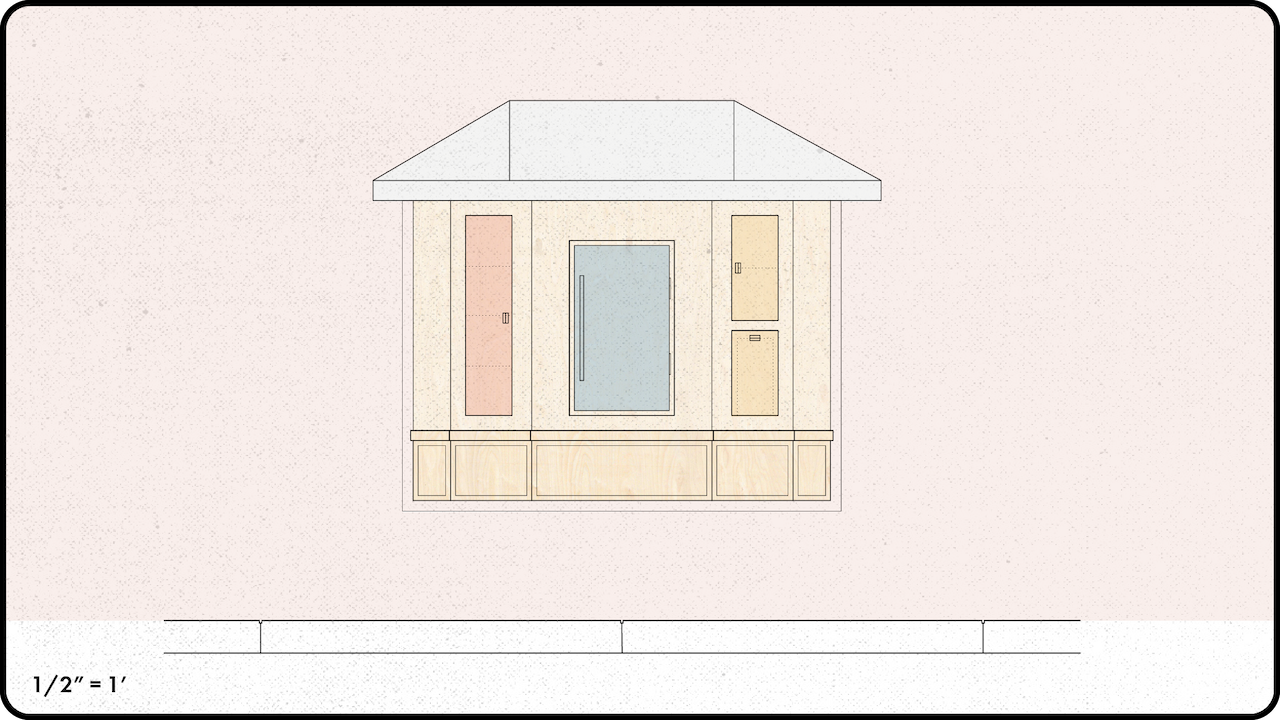
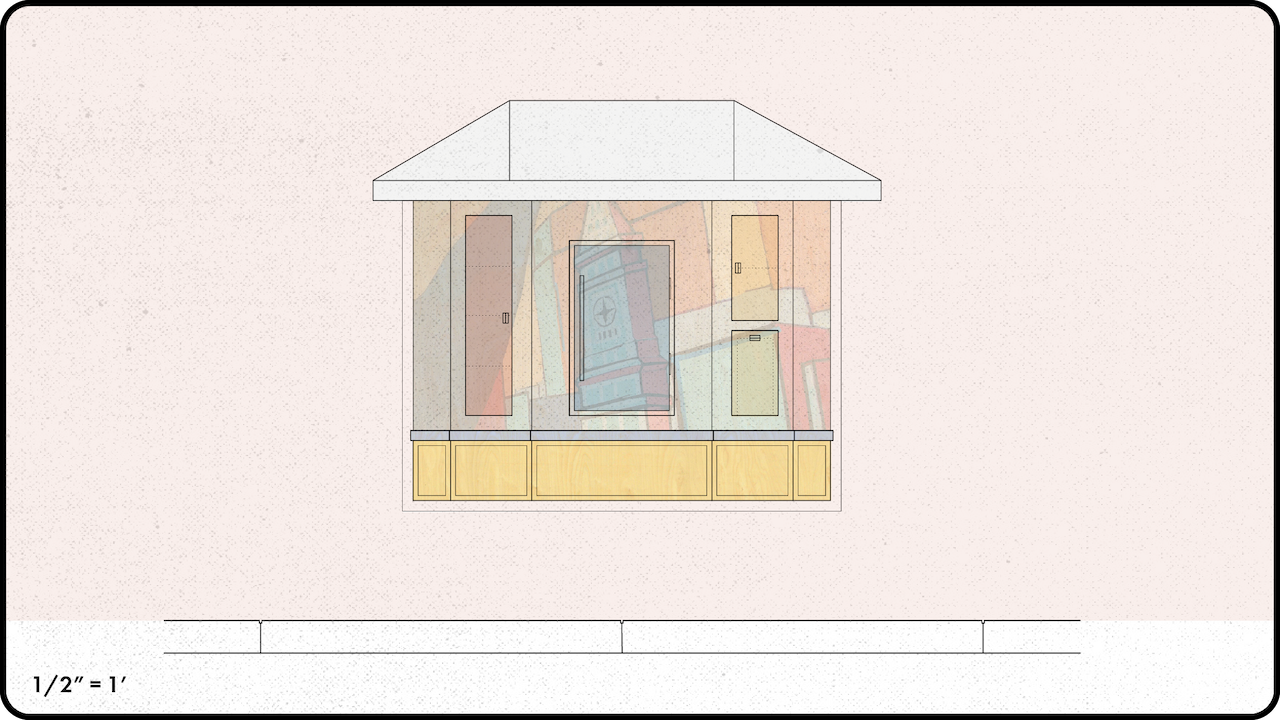
Fixed text and added perspectives

Changed region(s): [[0.3125, 0.275, 0.6562, 0.7028]]

diff --git a/index.html b/index.html
@@ -14,7 +14,7 @@
 				font-style: normal;
 				font-weight: bold;
 				font-size: 80px;
-				line-height: 70px;
+				line-height: 80px;
 				margin: 30px;
 				text-align: right;
 			}
@@ -56,8 +56,28 @@
 				font-size: 20px;
 				margin: 50px;
 			}
+			p2{
+				color: white;
+				font-family: Futura;
+				font-style: normal;
+				font-weight: thin;
+				font-size: 24px;
+				margin: 50px;
+			}
 			.mango{
 				margin: 0px 0px 0px 50px;
+			}
+			.mangos{
+				margin: 10px 10px 20px 30px;
+				float:left;
+			}
+			.cool{
+				margin: -20px 10px 0px 50px;
+				float:left;
+			}
+			.cooler{
+				margin: -20px 30px 0px 50px;
+				float:left;
 			}
 			.orange{
 				margin: 10px 50px 10px 50px;
@@ -66,7 +86,12 @@
 				width: 800px;
 			}
 			.shorter{
-				margin: 50px 50px 0px 500px;
+				margin: 50px 70px 50px 500px;
+				text-align: right;
+			}
+			.shortest{
+				margin: -50px 120px 50px 500px;
+				text-align: right;
 			}
 			#SiteNarrative{
 				text-align: right;
@@ -161,7 +186,11 @@
 			</div>
 
 			<div id="abstract">
-				<p> Institutionalized racism effects the well-being of minority groups every day. This manifests itself in issues regarding income, housing, energy insecurity, health care, and food insecurity. When systemic barriers overlap, you are left with generational poverty. With the COVID-19 Pandemic highlighting and exacerbating these issues, it is important to recognize and tackle these problems now. In East Boston, Latinx peoples have the highest rate of food insecurity of the different races/ethnicities studied and 59% of the EBHNC study participants lived in food-insecure households. While community cannot solve these issues, promoting a foundation of mutual aid in these under-served communities can help to support mental health and strengthen the neighborly bonds that we need to survive. Mutual Aid is described as “solidarity, not charity” and allows for communities to create sustainable networks to invest in themselves. The pandemic has garnerated a robust response to food insecurity but the current systems rely on flimsy infrastructure and do not have dedicated spaces beyond parking lots and community center rooms. So how can we reinterpret these historically charity-based models to embrace the concept of mutual aid? Mutual aid networks like the Young Lords Garbage Offensive and the Black Panthers Breakfast Program, are examples of a community’s ability to stand up to lack of physical infrastructure with social infrastructure. These networks existed as programming and rarely had physical spaces dedicated to public meeting. This is the same for most of the community work done by stakeholders NUBE, Eastie Farms, Cosecha, and Empower East Boston. Spacial installations are usually fold-up tables that don’t provide stability or create meaningful infrastructure. The residents of East Boston are separated from their community infrastructure and to change this I propose reclaiming empty lots to create community land, like the precedent of Eastie Farms. This would give residents the foundation of space and ownership to then build their relationships and mutual aid network. This would happen in the Eagle Hill and Orient Heights communities as these are the most at risk. The main water front site will house the Community Cafeteria while the more scalar installations will populate the city's streets. Residents will be able to use these spaces to tend to their existing neighborly/communal interactions and build a sustainable mutual aid network.</p> 
+				<img class="cooler" src="images/BWCS2.png"/>
+				<p>  </p>
+				<p2>Institutionalized racism effects the well-being of minority groups every day. This manifests itself in issues regarding income, housing, energy insecurity, health care, and food insecurity. When systemic barriers overlap, you are left with generational poverty. With the COVID-19 Pandemic highlighting and exacerbating these issues, it is important to recognize and tackle these problems now. In East Boston, Latinx peoples have the highest rate of food insecurity of the different races/ethnicities studied and 59% of the EBHNC study participants lived in food-insecure households. While community cannot solve these issues, promoting a foundation of mutual aid in these under-served communities can help to support mental health and strengthen the neighborly bonds that we need to survive. Mutual Aid is described as “solidarity, not charity” and allows for communities to create sustainable networks to invest in themselves. The pandemic has garnerated a robust response to food insecurity but the current systems rely on flimsy infrastructure and do not have dedicated spaces beyond parking lots and community center rooms. So how can we reinterpret these historically charity-based models to embrace the concept of mutual aid? Mutual aid networks like the Young Lords Garbage Offensive and the Black Panthers Breakfast Program, are examples of a community’s ability to stand up to lack of physical infrastructure with social infrastructure.</p> 
+				<img class="cool" src="images/BWCS.png"/>
+				<p2> These networks existed as programming and rarely had physical spaces dedicated to public meeting. This is the same for most of the community work done by stakeholders NUBE, Eastie Farms, Cosecha, and Empower East Boston. Spacial installations are usually fold-up tables that don’t provide stability or create meaningful infrastructure. The residents of East Boston are separated from their community infrastructure and to change this I propose reclaiming empty lots to create community land, like the precedent of Eastie Farms. This would give residents the foundation of space and ownership to then build their relationships and mutual aid network. This would happen in the Eagle Hill and Orient Heights communities as these are the most at risk. The main water front site will house the Community Cafeteria while the more scalar installations will populate the city's streets. Residents will be able to use these spaces to tend to their existing neighborly/communal interactions and build a sustainable mutual aid network.</p> 
 			</div>
 			<div id="SiteNarrative">
 				<img class="orange" src="images/OlderDia.png"/>
@@ -172,39 +201,47 @@
 			</div>
 			<div id="Stakeholder">
 				<img class="mango" src="images/Stakeholder.png"/>
-				<p class="short"> My stakeholder map highlights the important players in my project. The community centers and food-based organizations will play a large part on the main site, but the smaller installations will depend in large part, on the community and the corner stores/business owners. It is an interconnected network of many moving parts. We as designers, need to be mindful and try to understand each of these parts intimately. And rather than implement separate and unrelatable installations, propose infrastructure to bolster and support the existing economy and mutual aid relationship buds that are beginning to sprout in this new era. This diagram attempts to show the relationship between designer and community, how we must try to embed ourselves in and strengthen these relationships, so that when we leave, the framework we leave behind can continue to stand on its own.</p>
+				<p class="short"> My stakeholder map highlights the important players in my project. The community centers and food-based organizations will play a large part on the main site, but the smaller installations will depend in large part, on the community and the corner stores/business owners. It is an interconnected network of many moving parts. The maintenance of the proposed community infrastructure will depend on the strength and willingness to participate of each member. We as designers, need to be mindful and try to understand each of these parts intimately. And rather than implement separate and unrelatable installations, propose infrastructure to bolster and support the existing economy and mutual aid relationship buds that are beginning to sprout in this new era. This diagram attempts to show the relationship between designer and community, how we must try to embed ourselves in and strengthen these relationships, so that when we leave, the framework we leave behind can continue to stand on its own.</p>
 			</div>
 			<div id="Concept">
 				<h3>The Site</h3>
-				<img class="mango" src="images/Plan_Shaws.png"/>
-				<img class="mango" src="images/Plan_CS.png"/>
-				<img class="mango" src="images/Plan_Walkability.png"/>
-				<p class="short"> The neighborhood has one Shaws that is fairly accessibile via car. Anyone in the neighborhood with access to a vehicle can get to the grocery store within 5 minutes. However, these diagrams are showing what it's like to live in a walkable city and how the residents and business owners were able to fill in the gaps in the infrastructure with the various corner stores. The last shot is showing a 5 minute walkable radius in each circle. Most of the neighborhood is covered except for the area in the top, near the main site.   
+					<img class="orange" src="images/Plan_Shaws.png"/>
+					<img class="orange" src="images/Plan_CS.png"/>
+					<img class="orange" src="images/Plan_Walkability.png"/>
+					<p class="shortest"> The neighborhood has one Shaws that is fairly accessibile via car. Anyone in the neighborhood with access to a vehicle can get to the grocery store within 5 minutes. However, these diagrams are showing what it's like to live in a walkable city and how the residents and business owners were able to fill in the gaps in the infrastructure with the various bodegas. The last shot is showing a 5 minute walkable radius in each circle. Most of the neighborhood is covered except for the area in the top, near the main site.   
 				<h3>Scalar Interventions</h3>
-				<img class="mango" src="images/NetworkPlan.png"/>
-				<img class="mango" src="images/BayWindows.png"/>
-				<img class="mango" src="images/Sketch3.png"/>
-				<img class="mango" src="images/Sketch2.png"/>
-				<img class="mango" src="images/Sketch.png"/>
-				<img class="mango" src="images/BayPlan.png"/>
-				<img class="mango" src="images/BayElev.png"/>
-				<img class="mango" src="images/ParkletPlan.png"/>
-				<img class="mango" src="images/ParkletElev.png"/>
-				<img class="mango" src="images/Section.png"/>
-				<p class="short"> Before we get into the larger site, I wanted to introduce the building blocks of the project. A food belt of sorts, that will help to strengthen the mutual aid infrastructure of the community. Inspired by the intimate bay window that graces the facade of an abundance of buildings in the neighborhood, I am creating sites of mutual benefit within the existing framework of East Boston. With a range of scales depending on the installation site, these modular interventions are a small way of utilizing these corner stores, typically spaces of interaction and gathering, to further engage the community. Especially in an area with only one large supermarket, occasional shopping really only happens at these bodegas. So to choose these spaces for intervention is to recognize this and to give residents the ability to engage in mutual aid activity in their regular lives. Each Bay houses a community fridge, pantry space, and garbage/compost. And to further activate these spaces: the parklet! A selling point for these business owners is the parklet to provide outdoor seating and additonal community space to encourage relationships and meeting and make these corner stores an even more integral piece of infrastructure in the community.
+					<img class="mango" src="images/BayWindows.png"/>
+					<img class="mango" src="images/NetworkPlan.png"/>
+					<img class="mango" src="images/Sketch3.png"/>
+					<img class="mango" src="images/Sketch2.png"/>
+					<img class="mango" src="images/Sketch.png"/>
+					<img class="orange" src="images/BayPlan.png"/>
+					<img class="orange" src="images/BayElev.png"/>
+					<img class="orange" src="images/ParkletPlan.png"/>
+					<img class="orange" src="images/ParkletElev.png"/>
+					<img class="orange" src="images/Section.png"/>
+					<p class="short"> Before we get into the larger site, I wanted to introduce the building blocks of the project. A food belt of sorts, that will help to strengthen the mutual aid infrastructure of the community. Inspired by the intimate bay window that graces the facade of an abundance of buildings in the neighborhood, I am creating sites of mutual benefit within the existing framework of East Boston. With a range of scales depending on the installation site, these modular interventions are a small way of utilizing these corner stores, typically spaces of interaction and gathering, to further engage the community. Especially in an area with only one large supermarket, occasional shopping really only happens at these bodegas. So to choose these spaces for intervention is to recognize this and to give residents the ability to engage in mutual aid activity in their regular lives. Each Bay houses a community fridge, pantry space, and garbage/compost. They will be constructed without finish to allow each business to select any East Boston artists to curate the experience of their Bay Window. The elevation here is overlayed with a mural done by Jason Talbot. And to further activate these spaces: the parklet! A selling point to incentivize these business owners is the parklet to provide outdoor seating and additonal community space to encourage relationships and meeting. They will make these corner stores an even more integral piece of infrastructure in the community.
 				<h3>Community Cafeteria</h3>
-				<img class="mango" src="images/SitePlan.png"/>
-				<img class="mango" src="images/SitePlanZoom.png"/>
-				<p class="short"> The project is centered by the main site, which houses the Community Cafeteria and Greenhouse. The site is rather large and will require a multi-pronged design so phases are neccessary.The driving principle of the site is that this is where mutual aid comes to thrive. The program includes a community kitchen where people can come to cook dinners together or for others who may not have the ability. There will be dedicated space for organizations, such as Project Bread or the YMCA, who aim to support the community through different programming and offerings to set up camp and offer everchanging services depending on the need. A community garden and aquaponics farm/greenhouse will teach the community how to grow their own food and serve as a means of getting people to gather based on a universal need, to eat. Foundationally, the site is organized based on the parklet. Not only will this simple measure allow the site to grow exponentially, it allows for the site to be activated by the different scheduling of the parklets. For example. parklets need to be off the street from November-March. The city no longer provides storage during this time and so allocating space for these units to call home in the off season gives the site a temporal element that changes with the seasons and with the needs of the people. The gray spots on the site plan are highlighting those spaces within the greenhouse and the community garden that can these units of community infrastructure. The land is currently a sort of urban wild and portions of the site will continue to be as the different elements of the design are implemented as need arises. 
+					<img class="orange" src="images/SitePlan.png"/>
+					<img class="orange" src="images/SitePlanZoom.png"/>
+					<p class="shorter"> The project is centered by the main site, which houses the Community Cafeteria and Greenhouse. The site is rather large and will require a multi-pronged design so phases are neccessary.The driving principle of the site is that this is where mutual aid comes to thrive. The program includes a community kitchen where people can come to cook dinners together or for others who may not have the ability. Space for socially isolated people to come and gather, have events or just be together and eat together. There will be dedicated space for organizations, such as Project Bread, Eastie Farms, and the YMCA, who aim to support the community through different programming and offerings, to set up camp and offer everchanging services depending on the need. A community garden and aquaponics farm/greenhouse located on the Eastern portion of the site will teach the community how to grow their own food and serve as a means of getting people to gather based on a universal need, to eat and to grow. Foundationally, the site is organized based on the parklet. Not only will this simple measure allow the site to grow exponentially, it allows for the site to be activated by the different scheduling of the parklets. For example. parklets need to be off the street from November-March. The city no longer provides storage during this time and so allocating space for these units to call home in the off season gives the site a temporal element that changes with the seasons and with the needs of the people. The gray spots on the site plan are highlighting those spaces within the greenhouse and the community garden that can house these units of community infrastructure. The land is currently a sort of urban wild and portions of the site will continue to be as the different elements of the design are implemented as need arises. I've proposed some minor remediation design and paths that would allow the space to be occupied, walked/promenaded along, and rested upon. A new diagonal path would allow pedestrians to traverse the site and access the water which has historically been an industrial space and thus no public access. 
+				<h3></h3>
+					<img class="mango" src="images/Frontyard.png"/>
+				<h3></h3>
+					<p class="short"> perspective view from the street</p>
+				<h3></h3>
+					<img class="mango" src="images/Backyard.png"/>
+				<h3></h3>
+					<p class="short"> perspective view from the urban wild</p>
 				<h3>Digital Container</h3>
-				<img class="mango" src="images/DigitalCon.png"/>
-				<p class="short"> Main components of the digital container: the interactive, growing collage/message board and the map/schedule of the components.  
+					<img class="mango" src="images/DigitalCon.png"/>
+					<p class="short"> Main components of the digital container: the interactive, growing collage/message board and the map/schedule of the components.  
 
-				<p class="short"> Host an event on a parklet!
+					<p class="short"> Host an event on a parklet!
 
-				<p class="short"> Have food for your neighbors? Find a fridge here.
+					<p class="short"> Have food for your neighbors? Find a fridge here.
 
-				<p class="short"> Get involved with our community cafeteria here! 
+					<p class="short"> Get involved with our community cafeteria here! 
 			</div>
 
 			<!--Still need to fix my site plan research mappings to not look crazy but I think everything else is pretty good. Need to work on my scipt much more. Also need to add lifecycle diagrams for site, completely forgot..-->
